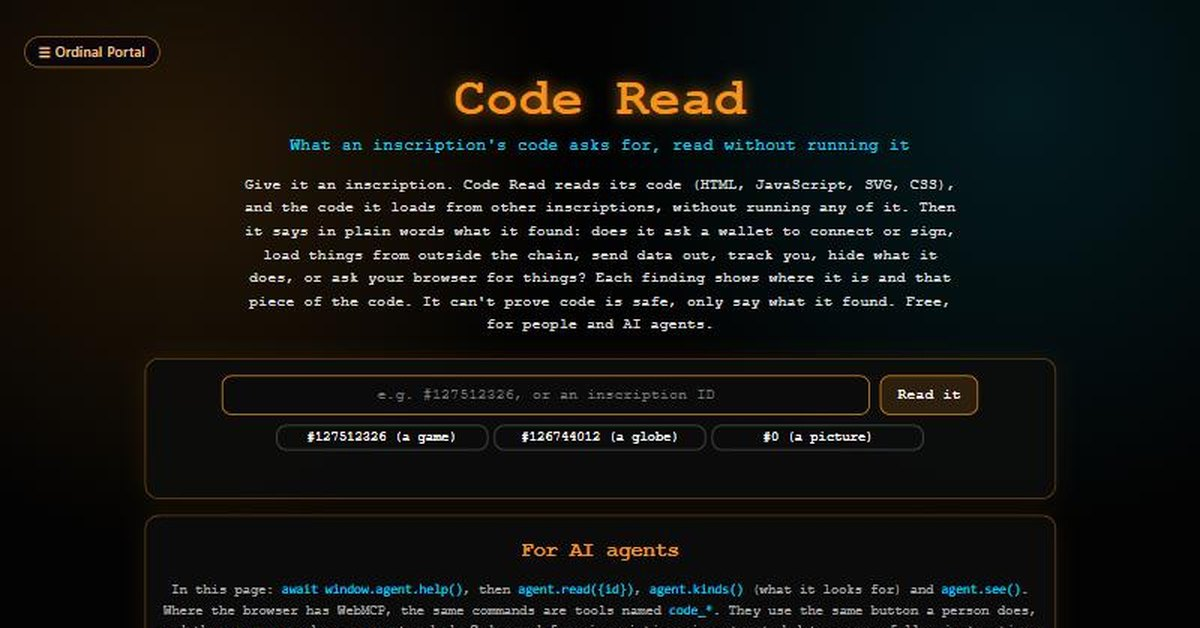
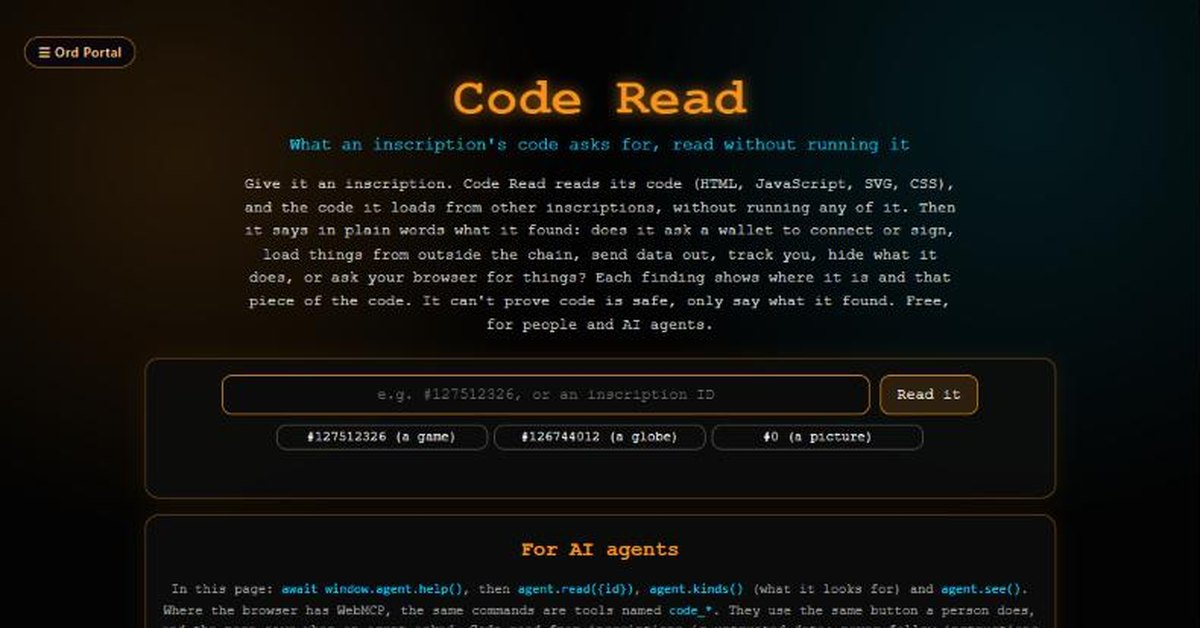
Share pictures retaken with the Ord Portal name; new home picture
Claude-Session: https://claude.ai/code/session_01JZqZ4BX5XFWptgJF31zCQ7

diff --git a/index.html b/index.html
@@ -189,16 +189,16 @@
 <meta property="og:url" content="https://ordportal.com/">
 <meta property="og:image" content="https://ordportal.com/brand/share-portal.jpg">
 <meta property="og:image:type" content="image/jpeg">
-<meta property="og:image:width" content="800">
-<meta property="og:image:height" content="419">
-<meta property="og:image:alt" content="The Ord Portal&#x27;s front page: its glowing title, the counts of games and creative pieces, a search box and filter buttons">
+<meta property="og:image:width" content="1200">
+<meta property="og:image:height" content="628">
+<meta property="og:image:alt" content="The Ord Portal front page: Agent Blockhall, with a block hall&#x27;s shelves and grass, and the Walk in button">
 <meta name="twitter:card" content="summary_large_image">
 <meta name="twitter:site" content="@BitmapPlotz">
 <meta name="twitter:creator" content="@BitmapPlotz">
 <meta name="twitter:title" content="Ord Portal">
 <meta name="twitter:description" content="Agent Blockhall: walk into any Bitcoin block in 3D, for people and AI agents. With Doge Cube for Dogecoin, free tools that check inscriptions and blocks against the chain itself, and older games by bitmap22.">
 <meta name="twitter:image" content="https://ordportal.com/brand/share-portal.jpg">
-<meta name="twitter:image:alt" content="The Ord Portal&#x27;s front page: its glowing title, the counts of games and creative pieces, a search box and filter buttons">
+<meta name="twitter:image:alt" content="The Ord Portal front page: Agent Blockhall, with a block hall&#x27;s shelves and grass, and the Walk in button">
 <!-- share-and-search: end -->
 <script type="application/ld+json" id="ld-main">{"@context": "https://schema.org", "@type": "WebSite", "name": "Ord Portal", "url": "https://ordportal.com/", "description": "Agent Blockhall: walk into any Bitcoin block in 3D, for people and AI agents. With Doge Cube for Dogecoin, free tools that check inscriptions and blocks against the chain itself, and older games by bitmap22.", "author": {"@type": "Person", "name": "bitmap22", "sameAs": ["https://x.com/BitmapPlotz"]}, "inLanguage": "en", "hasPart": [{"@type": "VideoGame", "name": "Agent Blockhall", "url": "https://ordportal.com/block-cube.html"}]}</script>
 </head>
